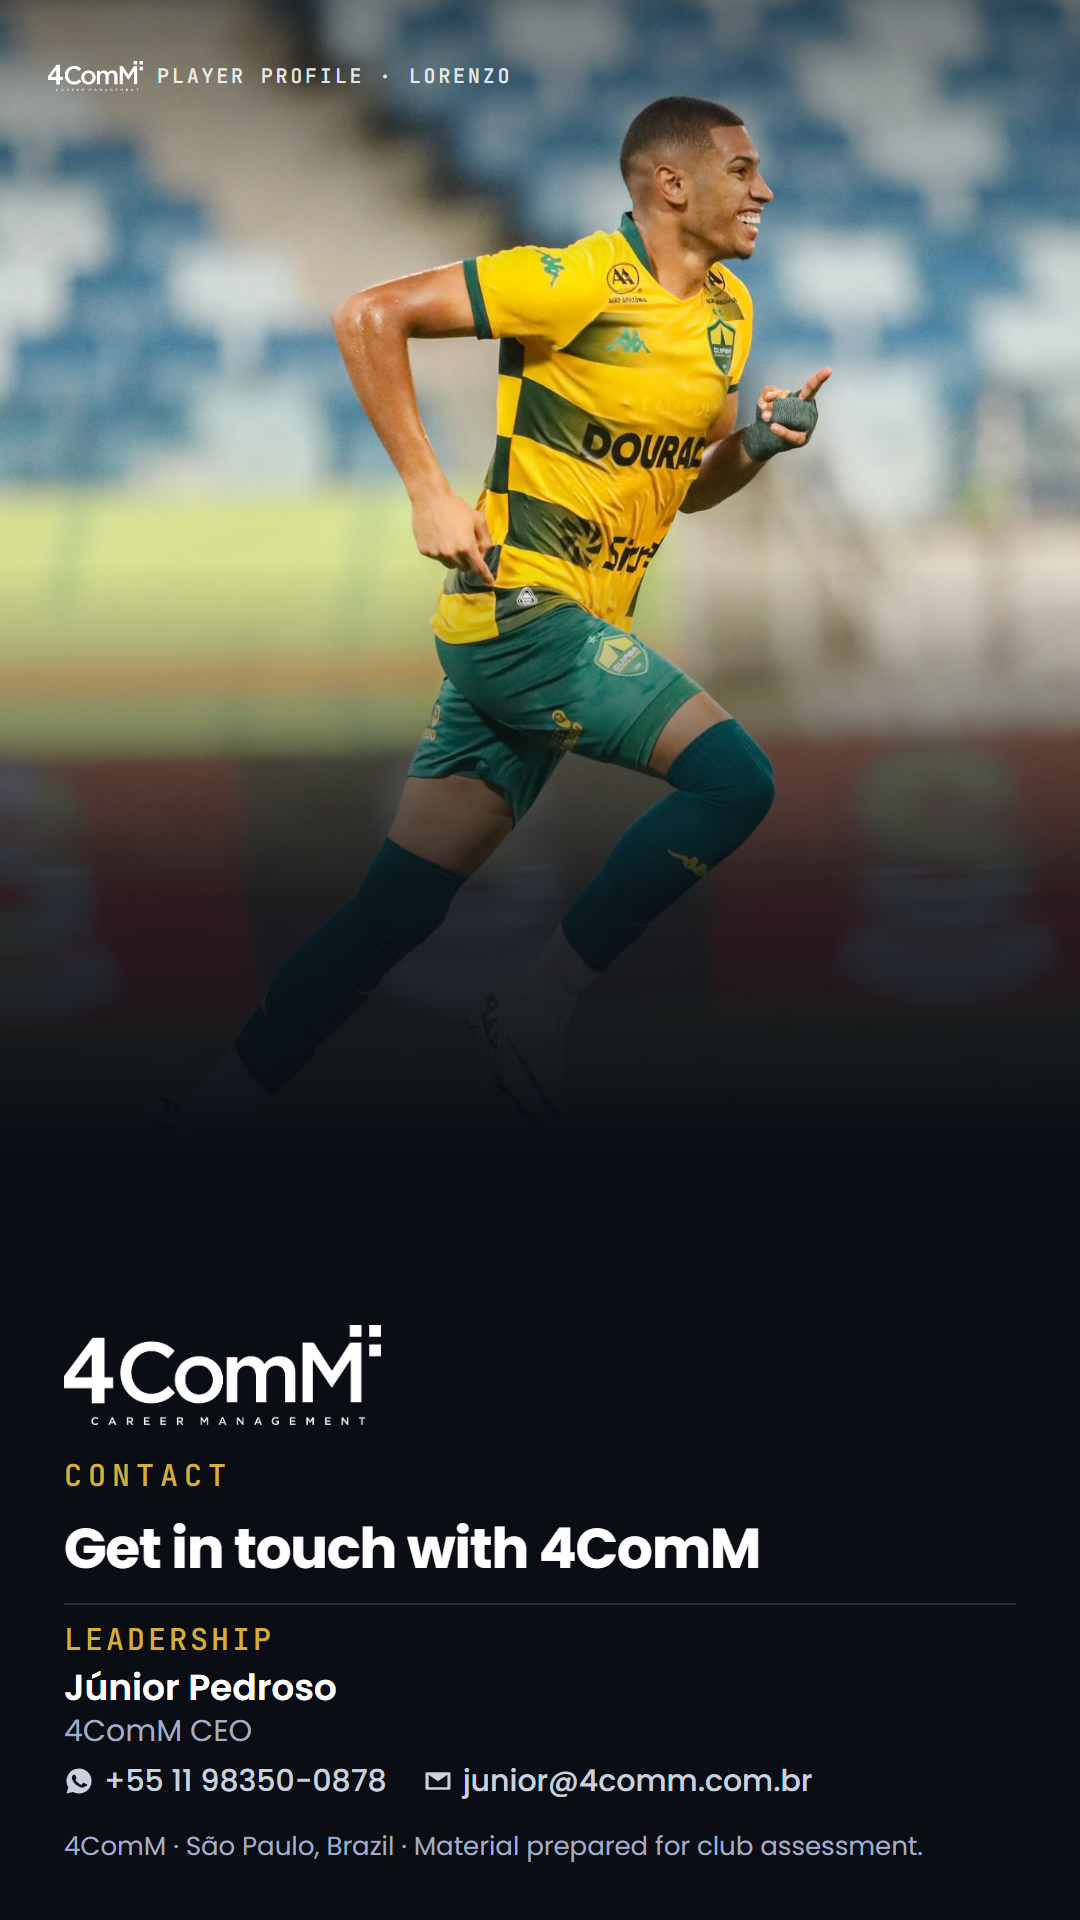
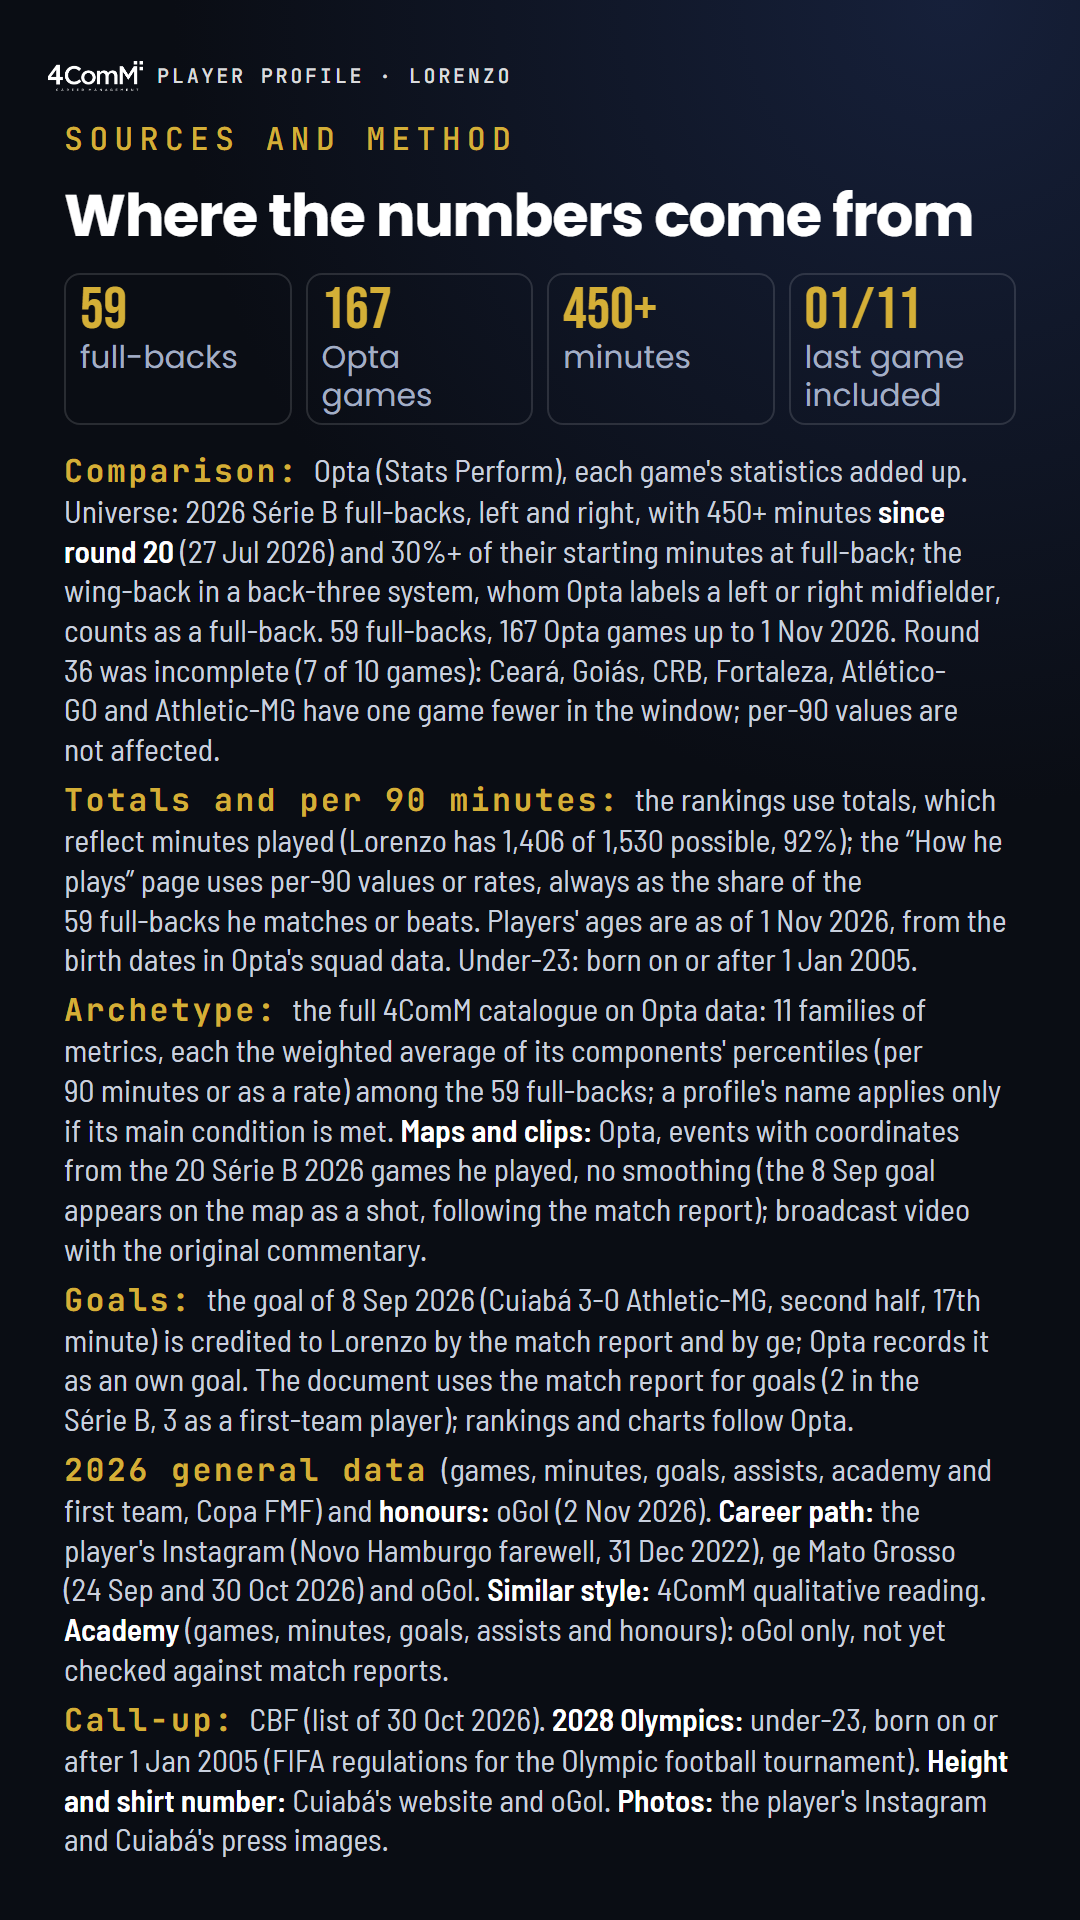
Player Profile Lorenzo: tela de contato retirada (15 telas)

diff --git a/index.html b/index.html
@@ -1207,14 +1207,6 @@ html.m .rcd{grid-template-columns:minmax(0,1fr) auto 220px 56px}
   <div class="fit"><span class="i br"><b>Encaixe:</b> <span class="nb">ala esquerdo</span> em linha de três, função que cumpre no Cuiabá, ou lateral esquerdo, para equipes que querem drible, condução e desarme no corredor (1º em dribles, 3º em conduções e 3º em desarmes). Aos <span class="nb">19 anos</span>, foi convocado para a <span class="nb">Seleção Sub-20</span> em 30/10/2026.</span><span class="i pt"><b>Encaixe:</b> <span class="nb">ala esquerdo</span> em linha de três, função que cumpre no Cuiabá, ou lateral esquerdo, para equipas que querem drible, condução e desarme no corredor (1.º em dribles, 3.º em conduções e 3.º em desarmes). Aos <span class="nb">19 anos</span>, foi convocado para a <span class="nb">Seleção Sub-20</span> em 30/10/2026.</span><span class="i en"><b>Fit:</b> left <span class="nb">wing-back</span> in a back three, the role he plays at Cuiabá, or <span class="nb">left-back</span>, for teams that want dribbling, carrying and tackling down the flank (1st for dribbles, 3rd for carries and 3rd for tackles). At 19, he was called up to Brazil's <span class="nb">Under-20s</span> on 30 Oct 2026.</span><span class="i es"><b>Encaje:</b> carrilero izquierdo en línea de tres, función que cumple en el Cuiabá, o lateral izquierdo, para equipos que buscan regate, conducción y robo en la banda (1.º en regates, 3.º en conducciones y 3.º en entradas). A los <span class="nb">19 años</span>, fue convocado con la Selección <span class="nb">Sub-20</span> el 30/10/2026.</span></div>
   <div class="fgs"><figure><svg class="mcp" viewBox="0 0 400 172" xmlns="http://www.w3.org/2000/svg"><rect x="2" y="2" width="396" height="168" rx="6" fill="none" stroke="rgba(255,255,255,.35)" stroke-width="3"/><line x1="2" x2="398" y1="40" y2="40" fill="none" stroke="rgba(255,255,255,.35)" stroke-width="3"/><path d="M140 40 a60 60 0 0 0 120 0" fill="none" stroke="rgba(255,255,255,.35)" stroke-width="3"/><rect x="100" y="122" width="200" height="48" fill="none" stroke="rgba(255,255,255,.35)" stroke-width="3"/><circle cx="130" cy="132" r="15" fill="#6b7698"/><circle cx="200" cy="140" r="15" fill="#6b7698"/><circle cx="270" cy="132" r="15" fill="#6b7698"/><circle cx="358" cy="82" r="15" fill="#6b7698"/><circle cx="160" cy="82" r="15" fill="#6b7698"/><circle cx="240" cy="82" r="15" fill="#6b7698"/><circle cx="42" cy="76" r="22" fill="#d4af37" stroke="#0a0d14" stroke-width="5"/><path d="M42 42 L42 56" stroke="#d4af37" stroke-width="4" stroke-dasharray="8 7"/><path d="M42 110 L42 148" stroke="#d4af37" stroke-width="4" stroke-dasharray="8 7"/></svg><figcaption><span class="i br"><b>Ala esquerdo</b><br>em linha de três</span><span class="i pt"><b>Ala esquerdo</b><br>em linha de três</span><span class="i en"><b>Left <span class="nb">wing-back</span></b><br>in a back three</span><span class="i es"><b>Carrilero izquierdo</b><br>en línea de tres</span></figcaption></figure><figure><svg class="mcp" viewBox="0 0 400 172" xmlns="http://www.w3.org/2000/svg"><rect x="2" y="2" width="396" height="168" rx="6" fill="none" stroke="rgba(255,255,255,.35)" stroke-width="3"/><line x1="2" x2="398" y1="40" y2="40" fill="none" stroke="rgba(255,255,255,.35)" stroke-width="3"/><path d="M140 40 a60 60 0 0 0 120 0" fill="none" stroke="rgba(255,255,255,.35)" stroke-width="3"/><rect x="100" y="122" width="200" height="48" fill="none" stroke="rgba(255,255,255,.35)" stroke-width="3"/><circle cx="155" cy="134" r="15" fill="#6b7698"/><circle cx="245" cy="134" r="15" fill="#6b7698"/><circle cx="348" cy="124" r="15" fill="#6b7698"/><circle cx="160" cy="80" r="15" fill="#6b7698"/><circle cx="240" cy="80" r="15" fill="#6b7698"/><circle cx="350" cy="54" r="15" fill="#6b7698"/><circle cx="52" cy="124" r="22" fill="#d4af37" stroke="#0a0d14" stroke-width="5"/><path d="M52 90 L52 56" stroke="#d4af37" stroke-width="4" stroke-dasharray="8 7"/></svg><figcaption><span class="i br"><b>Lateral esquerdo</b><br>em linha de quatro</span><span class="i pt"><b>Lateral esquerdo</b><br>em linha de quatro</span><span class="i en"><b>Left-back</b><br>in a back four</span><span class="i es"><b>Lateral izquierdo</b><br>en línea de cuatro</span></figcaption></figure></div>
   <div class="nota"><span class="i br"><span class="nb">Série B</span> desde a 20ª rodada · posição entre 59 laterais <span class="nb">(esquerdos e direitos)</span> com 450+ min, em números totais, salvo onde indicado por 90 minutos ou em taxa · <span class="nb">* empatado</span>.</span><span class="i pt"><span class="nb">Série B</span> desde a 20.ª jornada · posição entre 59 laterais <span class="nb">(esquerdos e direitos)</span> com 450+ min, em números totais, salvo onde indicado por 90 minutos ou em taxa · <span class="nb">* empatado</span>.</span><span class="i en"><span class="nb">Série B</span> since round 20 · rank among 59 <span class="nb">full-backs</span> <span class="nb">(left and right)</span> with 450+ min, in totals unless stated as per 90 minutes or a rate · <span class="nb">* tied</span>.</span><span class="i es"><span class="nb">Série B</span> desde la jornada 20 · posición entre 59 laterales <span class="nb">(izquierdos y derechos)</span> con 450+ min, en totales salvo indicación por 90 minutos o en tasa · <span class="nb">* empatado</span>.</span></div>
-</div></section><section class="slide semfit" id="contato" data-bg="sorriso" data-tbr="Contato" data-cbr="Contato da 4ComM: toque no WhatsApp ou no e-mail." data-tpt="Contacto" data-cpt="Contacto da 4ComM: toque no WhatsApp ou no e-mail." data-ten="Contact" data-cen="4ComM contact: tap WhatsApp or email." data-tes="Contacto" data-ces="Contacto de 4ComM: toca el WhatsApp o el correo.">
-<div class="ctph" style="background-image:url(assets/fotos/sorriso.jpg)"></div><div class="ctgr"></div>
-<div class="wrap ctw">
-  <img class="clogo" src="assets/logo4comm-white.png" alt="4ComM">
-  <div class="kick"><span class="i br">CONTATO</span><span class="i pt">CONTACTO</span><span class="i en">CONTACT</span><span class="i es">CONTACTO</span></div>
-  <h2><span class="i br">Fale com a 4ComM</span><span class="i pt">Fale com a 4ComM</span><span class="i en">Get in touch with 4ComM</span><span class="i es">Contacta con 4ComM</span></h2>
-  <div class="g4 discreto"><div class="ct4"><div class="ctx4"><div class="ck"><span class="i br">DIREÇÃO</span><span class="i pt">DIREÇÃO</span><span class="i en">LEADERSHIP</span><span class="i es">DIRECCIÓN</span></div><div class="cn">Júnior Pedroso</div><div class="cd"><span class="i br">CEO da 4ComM</span><span class="i pt">CEO da 4ComM</span><span class="i en">4ComM CEO</span><span class="i es">CEO de 4ComM</span></div></div><div class="cbt"><a class="lk" href="https://wa.me/5511983500878" target="_blank" rel="noopener"><svg viewBox="0 0 24 24" aria-hidden="true"><path fill="currentColor" d="M12 2a10 10 0 0 0-8.6 15.1L2 22l5.1-1.3A10 10 0 1 0 12 2zm5.2 14c-.2.6-1.300 1.200-1.800 1.200-.5.1-1 .2-3.300-.7-2.800-1.200-4.600-4-4.700-4.200-.1-.2-1.100-1.500-1.100-2.800s.7-2 1-2.300c.2-.3.500-.3.700-.3h.5c.2 0 .4 0 .6.500l.8 2c.1.2.1.4 0 .6l-.4.600c-.2.200-.3.400-.1.700.2.300.8 1.300 1.700 2.100 1.200 1 2.200 1.300 2.500 1.500.3.100.5.100.7-.1l.9-1.100c.2-.3.400-.2.700-.1l1.900.9c.3.100.5.200.5.300.1.200.1.800-.1 1.400z"/></svg><span>+55 11 98350-0878</span></a><a class="lk" href="mailto:junior@4comm.com.br"><svg viewBox="0 0 24 24" aria-hidden="true"><path fill="currentColor" d="M3 5h18a1 1 0 0 1 1 1v12a1 1 0 0 1-1 1H3a1 1 0 0 1-1-1V6a1 1 0 0 1 1-1zm9 7.200L4.500 7v10h15V7L12 12.200z"/></svg><span>junior@4comm.com.br</span></a></div></div></div>
-  <div class="nota"><span class="i br">4ComM · São Paulo, Brasil · Material preparado para avaliação de clubes.</span><span class="i pt">4ComM · São Paulo, Brasil · Material preparado para avaliação de clubes.</span><span class="i en">4ComM · São Paulo, Brazil · Material prepared for club assessment.</span><span class="i es">4ComM · São Paulo, Brasil · Material preparado para la evaluación de clubes.</span></div>
 </div></section><section class="slide " id="fontes" data-bg="sorriso" data-tbr="Fontes e método" data-cbr="Fontes e método. Dados até 01/11/2026." data-tpt="Fontes e método" data-cpt="Fontes e método. Dados até 01/11/2026." data-ten="Sources and method" data-cen="Sources and method. Data up to 1 November 2026." data-tes="Fuentes y método" data-ces="Fuentes y método. Datos hasta el 01/11/2026.">
 <div class="wrap">
   <div class="kick"><span class="i br">FONTES E MÉTODO</span><span class="i pt">FONTES E MÉTODO</span><span class="i en">SOURCES AND METHOD</span><span class="i es">FUENTES Y MÉTODO</span></div>
